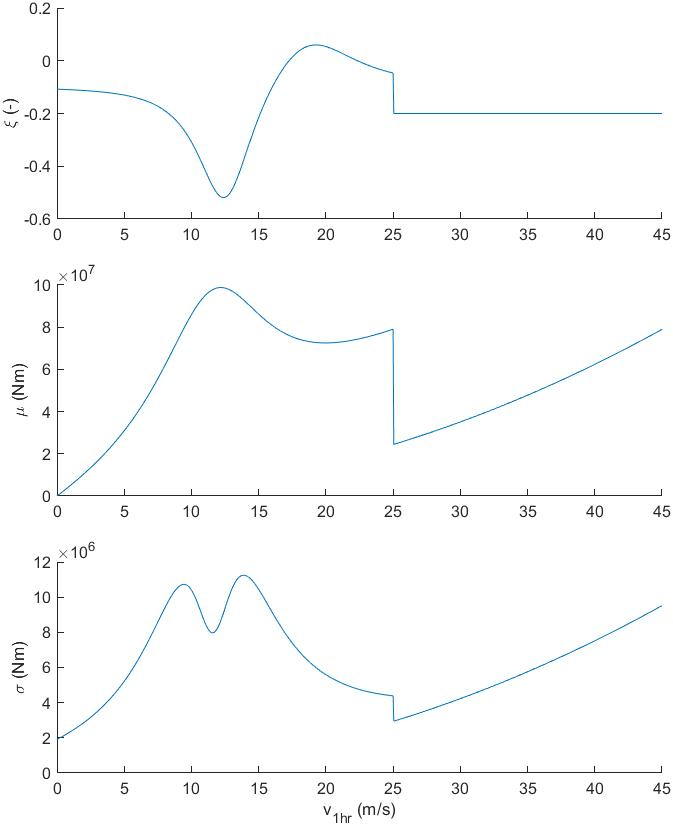
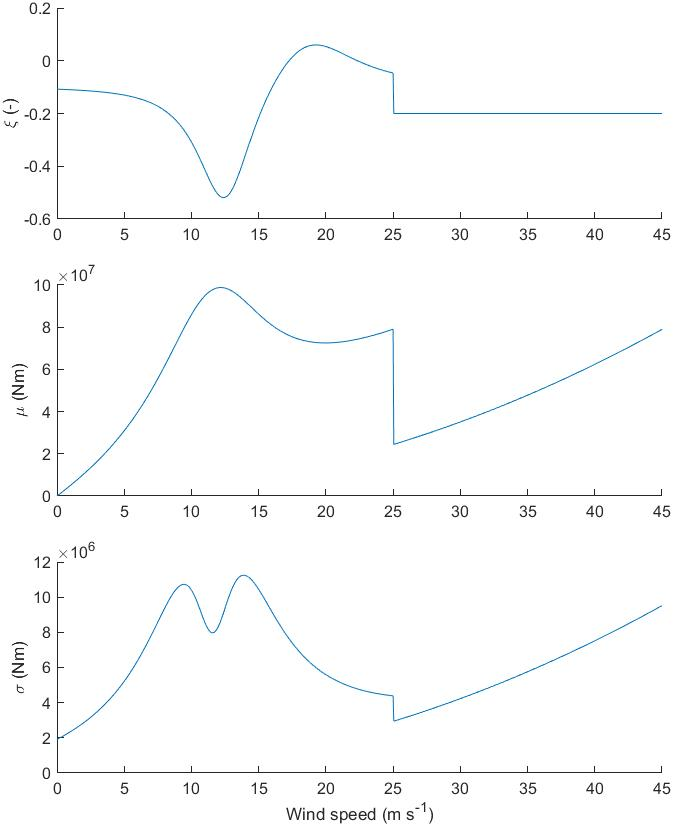
Update response parameter figure, delete some old figures.

diff --git a/02_Scripts/ResponseEmulator/VisualizeResponse.m b/02_Scripts/ResponseEmulator/VisualizeResponse.m
@@ -30,7 +30,7 @@ box off
 nexttile
 plot(vv, R.sigma(vv, hss, tpp));
 ylabel('\sigma (Nm)');
-xlabel('v_{1hr} (m/s)');
+xlabel('Wind speed (m s^{-1})');
 box off
 %sgtitle(['hs = ' num2str(hss) ', tp = ' num2str(tpp)]);
 %sgtitle('Parameter values at h_s = 0 m');
